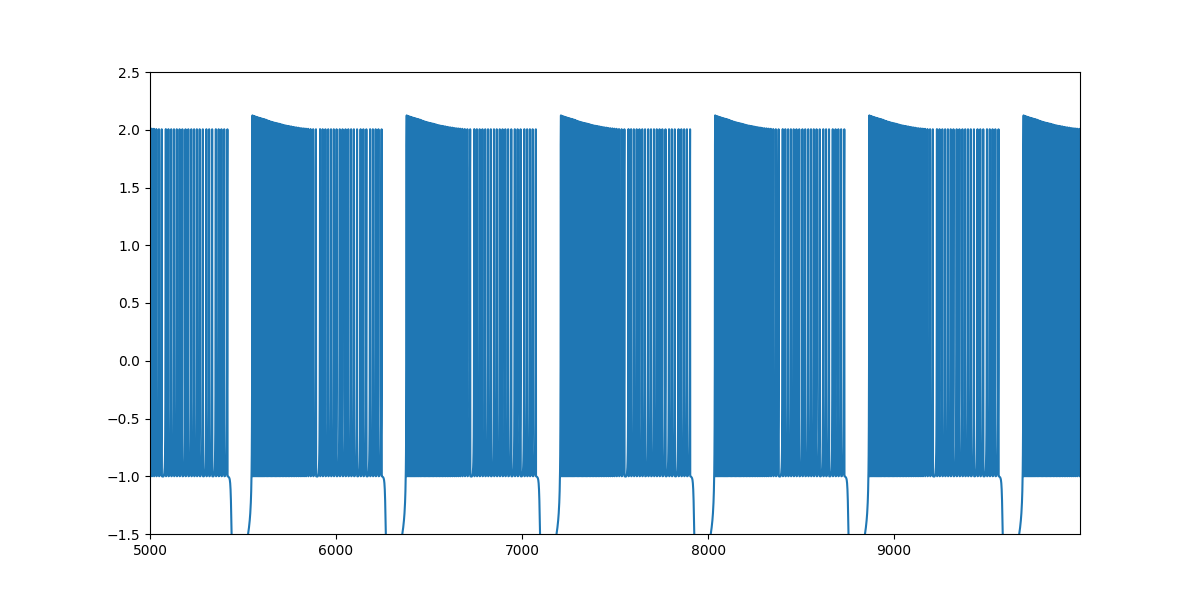
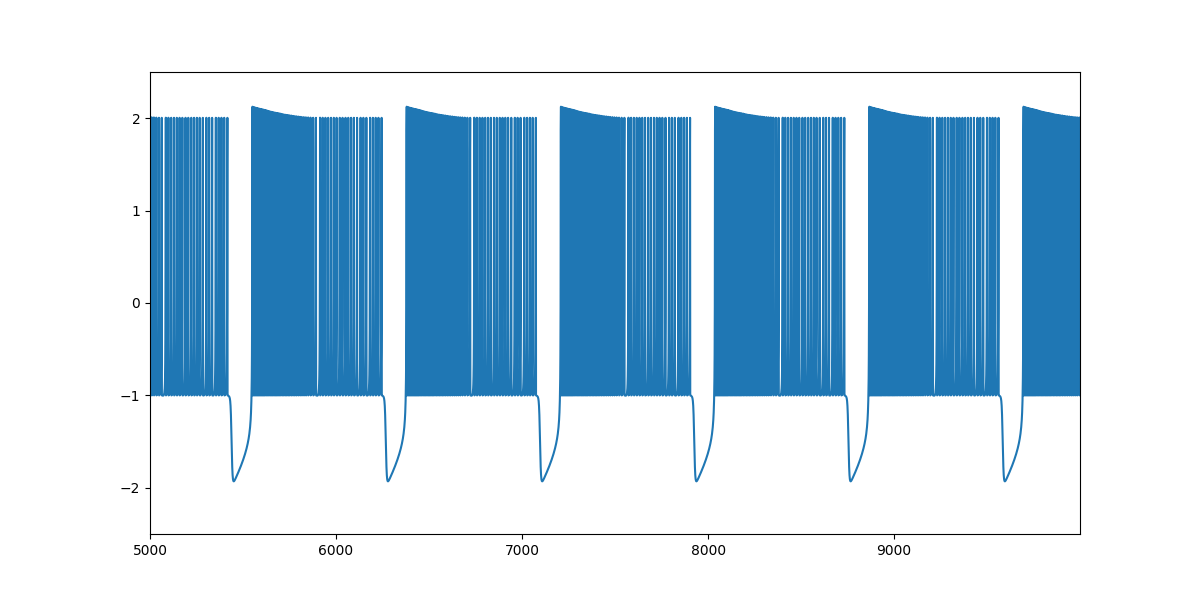
changes on the stationary variables (initial conditions) are needed

diff --git a/src/cppinc/hindmarsh_rose_cppinc.cpp b/src/cppinc/hindmarsh_rose_cppinc.cpp
@@ -21,7 +21,7 @@ double **allocate_array(double start_time, double time_increment, double target_
     int i = 0;
     double time = target_time - start_time;
 
-    (*n_lines) = (long)(ceil(time / time_increment));
+    (*n_lines) = (long)(round(time / time_increment));
 
 
     int n_cols = ELEMENTS_HR;

diff --git a/src/cpp/RulkovMap.cpp b/src/cpp/RulkovMap.cpp
@@ -72,7 +72,7 @@ RulkovMap::RulkovMap(double start_time, double time_increment, const char *filen
 
 void RulkovMap::calculate_stationary_y()
 {
-    y = (time_increment * (-m*(x+1)+(m*o))) ;
+    y =  (-m*(x+1)+(m*o)) ;
 }
 
 void RulkovMap::calculate(int index)
